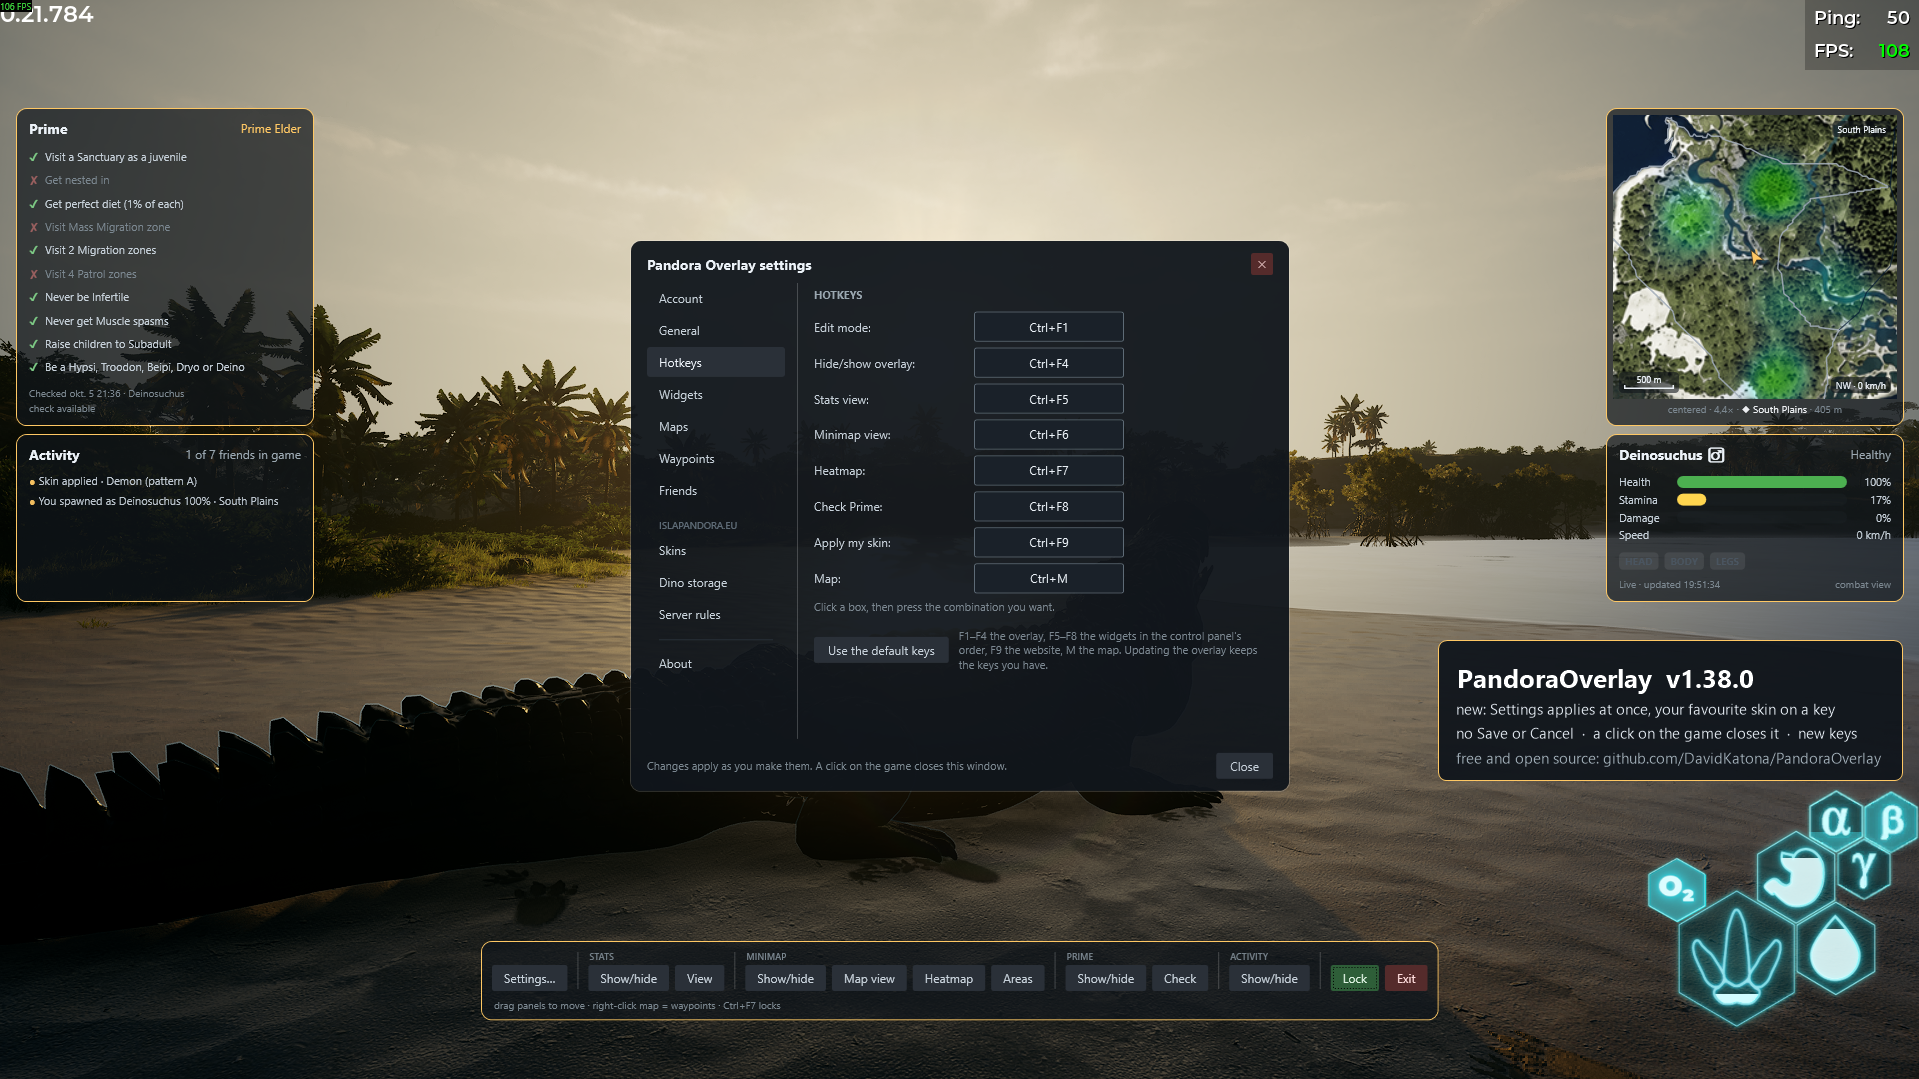
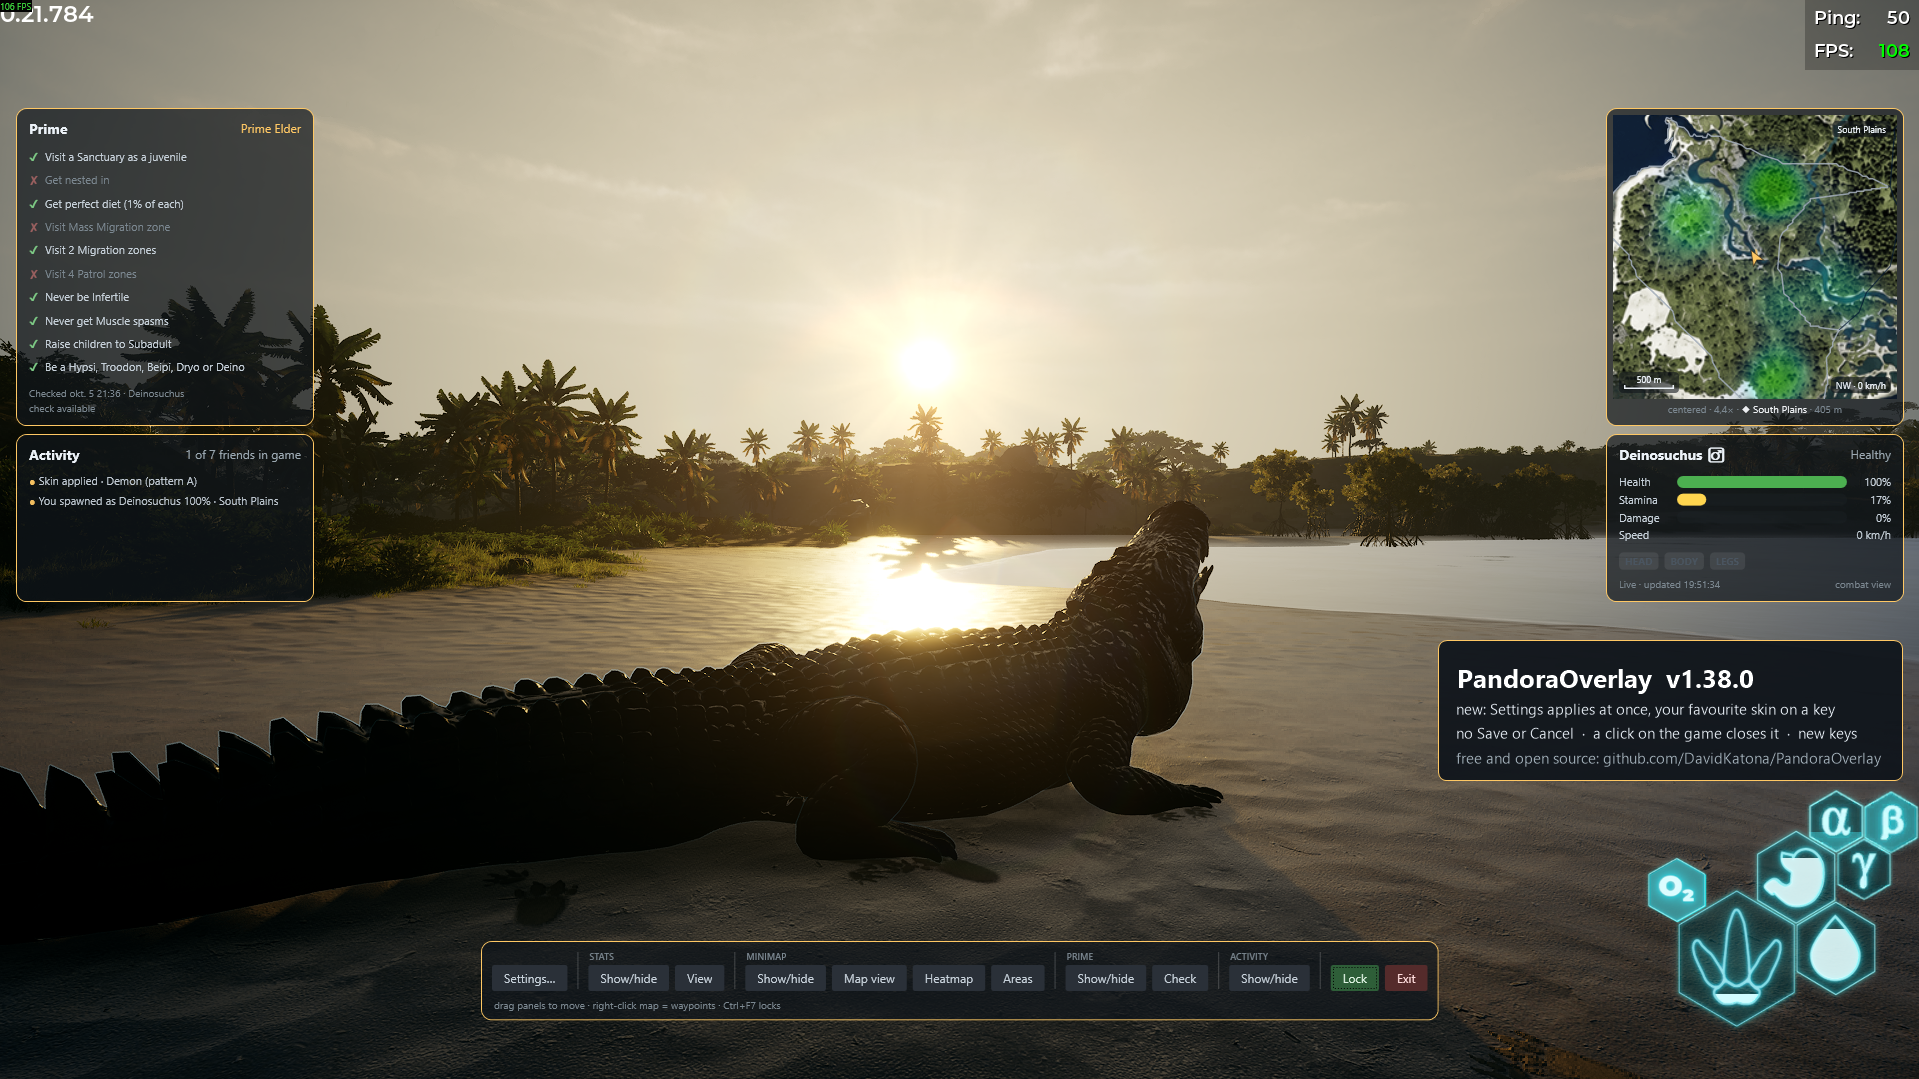
README: the 1.38 hero without the Settings window (the sunset shot and its caption)

Changed region(s): [[0.3075, 0.2141, 0.6764, 0.734]]

diff --git a/README.md b/README.md
@@ -9,7 +9,7 @@ It is **fully external**: everything it does goes through the same logged-in HTT
 [![Downloads](https://img.shields.io/github/downloads/DavidKatona/PandoraOverlay/total)](https://github.com/DavidKatona/PandoraOverlay/releases)
 [![License: MIT](https://img.shields.io/github/license/DavidKatona/PandoraOverlay)](LICENSE)
 
-![The overlay in-game, in edit mode, in the default two-column layout: the Prime tracker and the Activity feed top-left, the player-centered minimap and the stats panel in its Combat view top-right, and the control panel bottom-center, over a Deinosuchus resting on a beach at sunset; the minimap's pill names the area, "South Plains", with the heatmap and the area borders on, and the Activity feed reads "You spawned as Deinosuchus 100% · South Plains". In the middle, the Settings dialog is open on its Hotkeys page: the default keys from Ctrl+F1 for edit mode to Ctrl+F9 for "Apply my skin" and Ctrl+M for the map, the "Use the default keys" button, and along the bottom "Changes apply as you make them. A click on the game closes this window." beside the Close button. A caption box names version 1.38.0 and what is new: Settings applies at once, your favourite skin on a key; no Save or Cancel, a click on the game closes it, new keys](docs/screenshot.png)
+![The overlay in-game, in edit mode, in the default two-column layout: the Prime tracker and the Activity feed top-left, the player-centered minimap and the stats panel in its Combat view top-right, and the control panel bottom-center, over a Deinosuchus resting on a beach at sunset; the minimap's pill names the area, "South Plains", with the heatmap and the area borders on, and the Activity feed reads "You spawned as Deinosuchus 100% · South Plains". A caption box names version 1.38.0 and what is new: Settings applies at once, your favourite skin on a key; no Save or Cancel, a click on the game closes it, new keys](docs/screenshot.png)
 
 
 ## Contents
